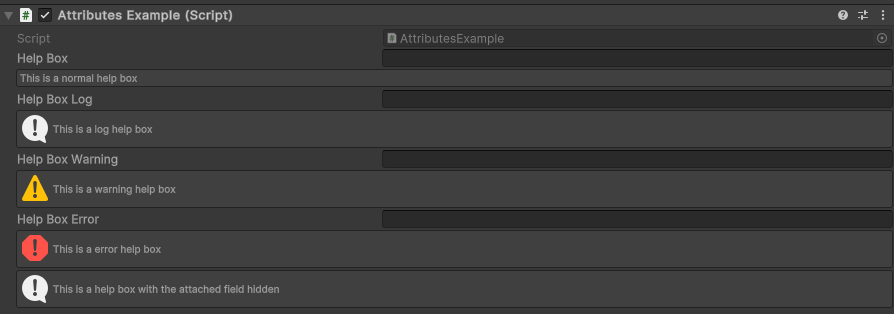
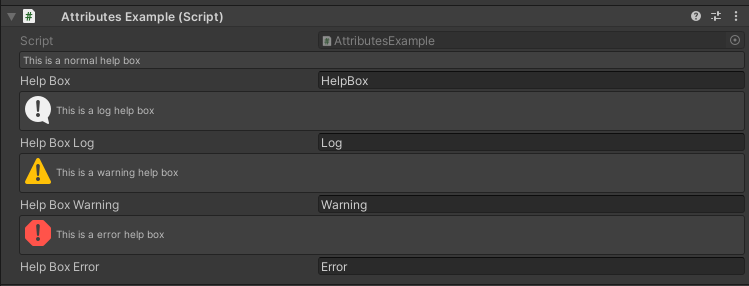
Update 1.6.1

diff --git a/docs/source/Attributes/button.rst b/docs/source/Attributes/button.rst
@@ -6,7 +6,7 @@ Attribute to add a button in the inspector.
 **Parameters:**
 	- ``string`` conditionName: The name of the condition to evaluate
 	- ``object`` enumValue: The value of the enum condition
-	- ``ConditionResult`` conditionResult: What happens to the property when the condition evaluates to true
+	- ``ConditionResult`` conditionResult: What happens to the button when the condition evaluates to true
 	- `optional`, ``bool`` negate: Negate the evaluated condition
 	- `optional`, ``string`` buttonLabel: The label displayed on the button
 	- `optional`, ``float`` buttonHeight: The height of the button
@@ -41,7 +41,7 @@ If your function has parameters they will be displayed under the button as a fol
 .. image:: ../Images/Button02.png
 
 .. note::
-	``Array``, ``List``, ``UnityEvent``, ``struct``, ``enum`` and ``out`` or ``ref`` parameters are not supported
+	``Array``, ``List``, ``UnityEvent``, serialized ``struct`` or ``class`` and ``out`` or ``ref`` parameters are not supported
 
 .. note::
 	Because of the way the button parameters are serialized if you have multiple of the same component on one object the button parameters will share values, same applies to multiple objects
@@ -92,4 +92,4 @@ If you wish for the button to be enabled/shown by default and disabled/hidden wh
 You can also use an ``enum`` as a condition the same way you would use it on the :doc:`enablefield`, :doc:`disablefield`, :doc:`showfield`, :doc:`hidefield` and :doc:`messagebox`.
 
 .. note::
-	The attribute won't work inside a serialized ``struct``
+	The attribute won't work inside a serialized ``struct`` or ``class``

diff --git a/docs/source/Attributes/horizontalgroup.rst b/docs/source/Attributes/horizontalgroup.rst
@@ -17,10 +17,10 @@ Example::
 	
 	public class AttributesExample : MonoBehaviour
 	{
-		[SerializeField, HorizontalGroup(nameof(field01), nameof(field02), nameof(field03), nameof(field04))] 
+		[SerializeField, HorizontalGroup(nameof(field01), nameof(field02), nameof(field03), nameof(field04))]
 		private Void groupHolder01;
 	
-		[SerializeField, HorizontalGroup(nameof(field05), nameof(field06), nameof(field07))]
+		[SerializeField, HorizontalGroup(50f, 50f, true, nameof(field05), nameof(field06))]
 		private Void groupHolder02;
 	
 		// The fields needs to be serialized, but we don't want them to show in the inspector
@@ -30,11 +30,7 @@ Example::
 		[SerializeField, HideInInspector] private bool field04;
 	
 		[SerializeField, HideInInspector] private Vector3 field05;
-		[SerializeField, HideInInspector] private string[] field06;
-		[SerializeField, HideInInspector] private UnityEvent field07;
+		[SerializeField, HideInInspector] private UnityEvent field06;
 	}
 
 .. image:: ../Images/HorizontalGroup01.png
-
-.. note::
-	The attribute cannot look for fields inside a ``struct``

diff --git a/docs/source/Attributes/verticalgroup.rst b/docs/source/Attributes/verticalgroup.rst
@@ -38,10 +38,10 @@ This attribute is best used with the :doc:`horizontalgroup` to display a bunch o
 		[HorizontalGroup(nameof(verticalGroupHolder01), nameof(verticalGroupHolder02))]
 		[SerializeField] private Void horizontalGroupHolder;
 	
-		[VerticalGroup(nameof(intField01), nameof(stringField01), nameof(boolField01))]
+		[VerticalGroup(drawInBox: true, nameof(intField01), nameof(stringField01), nameof(boolField01))]
 		[SerializeField, HideInInspector] private Void verticalGroupHolder01;
 	
-		[VerticalGroup(nameof(intField02), nameof(stringField02), nameof(boolField02))]
+		[VerticalGroup(drawInBox: true, nameof(intField02), nameof(stringField02), nameof(boolField02))]
 		[SerializeField, HideInInspector] private Void verticalGroupHolder02;
 	
 		[SerializeField, HideInInspector] private int intField01;
@@ -54,6 +54,3 @@ This attribute is best used with the :doc:`horizontalgroup` to display a bunch o
 	}
 
 .. image:: ../Images/VerticalGroup02.png
-
-.. note::
-	The attribute cannot look for fields inside a ``struct``

diff --git a/docs/source/Attributes/conditionalfield.rst b/docs/source/Attributes/conditionalfield.rst
@@ -51,7 +51,7 @@ And ``NOR`` which evaluates like this:
 
 .. image:: ../Images/ConditionalField08.png
 
-On top of the ``ConditionType`` we can also specify a certain condition we want to negate by creating a ``bool`` arraythat must contain the 
+On top of the ``ConditionType`` we can also specify a certain condition we want to negate by creating a ``bool`` array that must contain the 
 the conditions we want to negate in the order we added them.
 We set true for conditions we want to negate and set false for conditions we don’t::
 	
@@ -98,4 +98,4 @@ by setting the ``ConditionResult`` parameter to the value `EnableDisable`, like 
 .. image:: ../Images/ConditionalField12.png
 
 .. note::
-	It cannot look for the condition inside a ``struct`` and it cannot hide arrays or lists, only the fields inside them
+	It cannot hide arrays or lists, only the fields inside them

diff --git a/docs/source/Attributes/helpbox.rst b/docs/source/Attributes/helpbox.rst
@@ -5,7 +5,6 @@ Attribute to display a help box.
 
 **Parameters:**
 	- ``string`` message: The message to display
-	- `optional`, ``bool`` drawProperty: Draw the property this attribute is attached to
 	- `optional`, ``MessageMode`` messageType: The type of the message
 	
 Example::
@@ -26,12 +25,6 @@ Example::
 	
 		[SerializeField, HelpBox("This is a error help box", MessageMode.Error)]
 		private string helpBoxError;
-	
-		[SerializeField, HelpBox("This is a help box with the attached field hidden", false)]
-		private Void helpBoxHolder;
 	}
 	
 .. image:: ../Images/HelpBox01.png
-
-.. note::
-	Doesn’t work well with arrays or lists

diff --git a/docs/source/Attributes/disableineditmode.rst b/docs/source/Attributes/disableineditmode.rst
@@ -8,15 +8,15 @@ Attribute to disable a field when outside of play mode::
 	
 	public class AttributesExample : MonoBehaviour
 	{
-		[DisableInEditMode] public int field = "51";
+		[SerializeField, DisableInEditMode] private int field;
 	}
 
 Outside of play mode:
 
-.. image:: ../Images/DisableInPlaymode02.png
+.. image:: ../Images/DisableInEditmode01.png
 
 During play mode:
 
-.. image:: ../Images/DisableInPlaymode01.png
+.. image:: ../Images/HideInEditmode01.png
 
 Useful when you want to enable certain fields only when playing.

diff --git a/docs/source/Attributes/hideineditmode.rst b/docs/source/Attributes/hideineditmode.rst
@@ -8,15 +8,15 @@ Attribute to hide a field when outside of play mode::
 	
 	public class AttributesExample : MonoBehaviour
 	{
-		[HideInEditMode] public int field = "51";
+		[SerializeField, HideInEditMode] private int field;
 	}
 
 Outside of play mode:
 
-.. image:: ../Images/HideInPlaymode01.png
+.. image:: ../Images/HideInEditmode01.png
 
 During play mode:
 
-.. image:: ../Images/DisableInPlaymode01.png
+.. image:: ../Images/HideInEditmode02.png
 
 Useful when you want to show certain fields only when playing.

diff --git a/docs/source/changelogs.rst b/docs/source/changelogs.rst
@@ -1,6 +1,12 @@
 Changelogs
 ==========
 
+EditorAttributes v1.6.1 Changelog:
+----------------------------------
+- Made the Helpbox a decorator attribute
+- Removed the UseRGB option from the GUIColor enum
+- Added enum support to Button parameters
+
 EditorAttributes v1.6.0 Changelog:
 ----------------------------------
 - Added ColorField attribute

diff --git a/docs/source/Attributes/hidefield.rst b/docs/source/Attributes/hidefield.rst
@@ -49,4 +49,4 @@ The field will be hidden when the ``enum`` is set to `State02`.
 .. image:: ../Images/HideField04.png
 
 .. note::
-	It cannot look for the condition inside a ``struct`` and it cannot hide arrays or lists, only the fields inside them
+	It cannot hide arrays or lists, only the fields inside them

diff --git a/docs/source/Attributes/showfield.rst b/docs/source/Attributes/showfield.rst
@@ -49,4 +49,4 @@ The field will be shown when the ``enum`` is set to `State02`.
 .. image:: ../Images/ShowField04.png
 
 .. note::
-	It cannot look for the condition inside a ``struct`` and it cannot hide arrays or lists, only the fields inside them
+	It cannot hide arrays or lists, only the fields inside them

diff --git a/docs/source/Attributes/messagebox.rst b/docs/source/Attributes/messagebox.rst
@@ -68,4 +68,4 @@ The message boxes will show when the ``enum`` is set to `State02`.
 .. image:: ../Images/MessageBox04.png
 
 .. note::
-	Doesn’t work well with arrays or lists and it cannot look for the condition inside a ``struct``
+	Doesn’t work well with arrays or lists

diff --git a/docs/source/Attributes/enablefield.rst b/docs/source/Attributes/enablefield.rst
@@ -49,4 +49,4 @@ The field will be enabled when the ``enum`` is set to `State02`.
 .. image:: ../Images/EnableField04.png
 
 .. note::
-	It cannot look for the condition inside a ``struct``
+	It cannot look for the condition inside a serialized ``struct`` or ``class``
